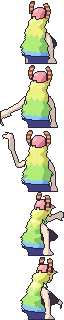
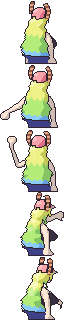
Lucoa back picture: re-posed frames 2-3, hand-drawn fists, normal-size hands in 4-5
Claude-Session: https://claude.ai/code/session_01PFRhGfDJhE1fCmd6x4xB4j

Changed region(s): [[0.0, 0.3125, 0.25, 0.5]]

diff --git a/tools/rh/lucoa/v6/fist.py b/tools/rh/lucoa/v6/fist.py
@@ -1,0 +1,55 @@
+# Hand-drawn fist for the throwing hand (frames 2-3): back of the hand, knuckles toward the hand's direction.
+import math
+import backpal
+# mask with knuckles at the top, wrist at the bottom ('#' = hand, 'k' = gap between knuckles)
+FIST = [
+    ".##.##.#.",
+    "#########",
+    "#########",
+    "#########",
+    "#########",
+    ".#######.",
+    "..#####..",
+]
+def place(img, K, wrist, knuckle):
+    """img: 64x64 list of RGB/None; K: materials. Erase the rendered hand past the wrist, draw the fist."""
+    wx, wy = wrist; dx, dy = knuckle[0] - wx, knuckle[1] - wy
+    n = math.hypot(dx, dy) or 1; dx, dy = dx / n, dy / n
+    # 1. erase the rendered hand (skin beyond the wrist)
+    for y in range(64):
+        for x in range(64):
+            if K[y][x] == 'skin' or (img[y][x] == backpal.O and K[y][x] is not None and K[y][x] == 'skin'):
+                pass
+            vx, vy = x + 0.5 - wx, y + 0.5 - wy
+            along = vx * dx + vy * dy; across = abs(-vx * dy + vy * dx)
+            if along > 0.5 and along < 9 and across < 5 and K[y][x] == 'skin':
+                img[y][x] = None; K[y][x] = None
+    # 2. fist mask rotated so its top (knuckles) points along (dx, dy); its wrist end sits on the wrist
+    h, w = len(FIST), len(FIST[0])
+    cx, cy = wx + dx * (h / 2 - 0.5), wy + dy * (h / 2 - 0.5)
+    ux, uy = dx, dy                     # 'up' in the mask = along the hand
+    rx, ry = -uy, ux                    # 'right' in the mask
+    if rx < 0: rx, ry = -rx, -ry        # keep the shading's light side to the upper left
+    mask = set(); gaps = set()
+    for y in range(64):
+        for x in range(64):
+            vx, vy = x + 0.5 - cx, y + 0.5 - cy
+            mu = -(vx * ux + vy * uy) + h / 2      # row in mask (0 = knuckles)
+            mr = vx * rx + vy * ry + w / 2
+            r, c = int(math.floor(mu)), int(math.floor(mr))
+            if 0 <= r < h and 0 <= c < w and FIST[r][c] == '#': mask.add((x, y))
+    skin = backpal.PAL['skin']
+    for x, y in mask:
+        if not (0 <= x < 64 and 0 <= y < 64): continue
+        nb = [(x + 1, y), (x - 1, y), (x, y + 1), (x, y - 1)]
+        out = [p for p in nb if p not in mask]
+        if out:
+            # no outline where the fist meets the arm (wrist side)
+            if all(0 <= p[0] < 64 and 0 <= p[1] < 64 and K[p[1]][p[0]] == 'skin' and img[p[1]][p[0]] not in (None, backpal.O) for p in out):
+                img[y][x] = skin[1]
+            else: img[y][x] = backpal.O
+        elif (x + 1, y + 1) not in mask or (x + 1, y) not in mask or (x, y + 2) not in mask: img[y][x] = skin[2]
+        else: img[y][x] = skin[0]
+        K[y][x] = 'skin'
+    # knuckle creases: short shade lines from the gaps
+    return img

diff --git a/tools/rh/lucoa/v6/pose.py b/tools/rh/lucoa/v6/pose.py
@@ -75,7 +75,7 @@ def apply_pose(arm, i):
             pb = arm.pose.bones['mixamorig:' + side + b]; pb.scale = (1.25, 1.0, 1.25)
             for c in pb.children: c.scale = (1 / 1.25, 1.0, 1 / 1.25)
         arm.pose.bones['mixamorig:' + side + 'Hand'].scale = (1.3, 1.3, 1.3) if i < 3 else (1.0, 1.0, 1.0)
-    if i in (1, 2): arm.pose.bones['mixamorig:LeftHand'].scale = (2.0, 2.0, 2.0)   # fist holding the ball
+    # (frames 2-3 get a hand-drawn fist in convert.py)
     # throwing hand: fingers curled around the ball
     if True:
         for f in ('Index', 'Middle', 'Ring', 'Pinky'):
@@ -114,6 +114,15 @@ if __name__ == '__main__':
         w.node_tree.nodes['Background'].inputs['Strength'].default_value = 0.35
         sc.cycles.samples = 32
     os.makedirs('m3d/out', exist_ok=True)
+    from bpy_extras.object_utils import world_to_camera_view
+    import json
+    hands = {}
     for i in range(5):
         apply_pose(arm, i)
         R.render(f'm3d/out/{mode}_{i}.png')
+        # where the throwing hand is in the 64x64 sprite (wrist and knuckles), for the hand-drawn fist
+        def px(bone):
+            co = arm.matrix_world @ arm.pose.bones['mixamorig:' + bone].head
+            v = world_to_camera_view(sc, cam, co); return [v.x * 64, (1 - v.y) * 64]
+        hands[i] = {'wrist': px('LeftHand'), 'knuckle': px('LeftHandMiddle2')}
+    json.dump(hands, open('m3d/out/hands.json', 'w'))

diff --git a/tools/rh/lucoa/v6/hands_manual.py b/tools/rh/lucoa/v6/hands_manual.py
@@ -1,0 +1,37 @@
+# Hand-drawn throwing hands for frames 2 and 3 (index 1, 2). O = outline, L = skin, M = skin shadow,
+# '.' = clear, ' ' = leave the pixel as rendered. (x0, y0) = top-left of the patch; ERASE clears the old hand first.
+import backpal
+HANDS = {
+    1: {'erase': (0, 48, 7, 58), 'at': (0, 48), 'rows': [
+        "..OOLLLLMMOO",
+        ".OLLLLLLMO  ",
+        "OLLLLLLMMO  ",
+        "OLMLLLLMMO  ",
+        "OLLLLLMMMO  ",
+        "OLMLLMMMMO  ",
+        ".OLMMMMMO   ",
+        "..OOOOOO    ",
+    ]},
+    2: {'erase': (3, 7, 17, 16), 'at': (7, 7), 'rows': [
+        "          ",
+        "..OOOOOO..",
+        ".OLLLLLLO.",
+        "OLLMLLMLMO",
+        "OLLLLLLMMO",
+        "OLLLLLLMMO",
+        "OMLLLLMMMO",
+        ".OMLLMMMO.",
+        "..OLMMMO..",
+    ]},
+}
+def apply(img, i):
+    if i not in HANDS: return
+    h = HANDS[i]; x0, y0, x1, y1 = h['erase']
+    for y in range(y0, y1):
+        for x in range(x0, x1):
+            if img[y][x] is not None and img[y][x] in (backpal.O,) + tuple(backpal.PAL['skin']): img[y][x] = None
+    ax, ay = h['at']; sk = backpal.PAL['skin']
+    for dy, row in enumerate(h['rows']):
+        for dx, c in enumerate(row):
+            if c == ' ': continue
+            img[ay + dy][ax + dx] = {'.': None, 'O': backpal.O, 'L': sk[0], 'M': sk[2]}[c]

diff --git a/tools/rh/lucoa/v6/convert.py b/tools/rh/lucoa/v6/convert.py
@@ -5,6 +5,8 @@ from PIL import Image
 from collections import Counter
 import backpal
 N = 64; B = 8
+import os
+FIST_MODE = os.environ.get('FIST', 'auto')
 def cls(p):
     r, g, b = p[:3]
     h, l, s = colorsys.rgb_to_hls(r / 255, g / 255, b / 255)
@@ -127,10 +129,16 @@ def to_img(out, bg=(0, 0, 0, 0)):
             if out[y][x]: im.putpixel((x, y), out[y][x] + (255,))
     return im
 if __name__ == '__main__':
+    import json, fist
+    hands = json.load(open('m3d/out/hands.json'))
     frames = []
     for i in range(5):
         K, C, T = frame(Image.open(f'm3d/out/flat_{i}.png').convert('RGBA'), Image.open(f'm3d/out/lit_{i}.png').convert('RGBA'))
-        frames.append(to_img(finish(K, C, T)))
+        out = finish(K, C, T)
+        if i in (1, 2) and FIST_MODE == 'auto': fist.place(out, K, hands[str(i)]['wrist'], hands[str(i)]['knuckle'])
+        if FIST_MODE == 'manual':
+            import hands_manual; hands_manual.apply(out, i)
+        frames.append(to_img(out))
     sheet = Image.new('RGBA', (64, 320), (0, 0, 0, 0))
     for i, fr in enumerate(frames): sheet.alpha_composite(fr, (0, 64 * i))
     # one shared palette for all frames

diff --git a/tools/rh/lucoa/v6/README.md b/tools/rh/lucoa/v6/README.md
@@ -4,12 +4,13 @@ Made with Blender (`pip install bpy`) from the owner's rigged Lucoa model, which
 Put it at `model/01- Quetzalcoatl Lucoa/` and run from the folder above `m3d/`, with these scripts in `m3d/`:
 
     for m in flat lit; do YAW=215 SHX=-0.12 SUNZ=160 TW=15,22,-28,-30 CURL=55 python3 m3d/pose.py $m; done
-    python3 m3d/convert.py
+    FIST=manual python3 m3d/convert.py
 
 - `pose.py` poses the Mixamo skeleton in Red's five throw poses (left arm throws), enlarges the horns,
   thickens the arms a little and renders a flat-colour pass and a lit pass from behind (512px).
 - `convert.py` turns each render into 64x64: material by majority vote, tone from the lit pass, then
   outlines, horn rings, wavy hair colour bands and the cap's snapback opening.
 - `backpal.py` is the palette, based on the owner's normal.png.
+- `hands_manual.py` holds the hand-drawn fists for frames 2 and 3 (pasted over the rendered hands).
 
 `back_sheet.png` = the 5 frames stacked (64x320). Not in the game yet.
